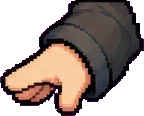
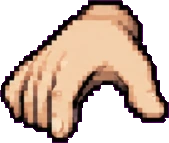
Thay 5 bàn tay GPT (không tay áo) + thông số hiệu ứng to nhỏ của tay
Claude-Session: https://claude.ai/code/session_01JXxsiLMYo7eUgbLSccjAiD

diff --git a/assets/characters/README.md b/assets/characters/README.md
@@ -8,7 +8,7 @@ characters/
 
 `base/`:
 - `ban-tay.tron` — bàn tay tròn code vẽ khi đi/đứng (mặc định).
-- `ban-tay.nam`, `nam-chat`, `cam-vu-khi`, `chi`, `mo` — 5 thế tay có tay áo (nắm, nắm chặt, cầm vũ khí, chỉ, mở tay phép thuật).
+- `ban-tay.nam`, `nam-chat`, `nam-nghieng`, `chi`, `mo` — 5 thế bàn tay GPT (không tay áo): nắm, nắm chặt, nắm nghiêng, duỗi/chỉ, mở tay phép thuật. Vẽ hướng phải; tay trái = lật gương.
 - `than-tran`, `toc.sau`, `toc.nghieng` — nhân vật trần và tóc tách lớp (dự phòng cho hệ tóc riêng).
 
 Mẫu "tân thủ" (chưa lên trang bị) nằm ở `assets/equipment/trang-phuc/art.outfit.tan-thu.*`.
